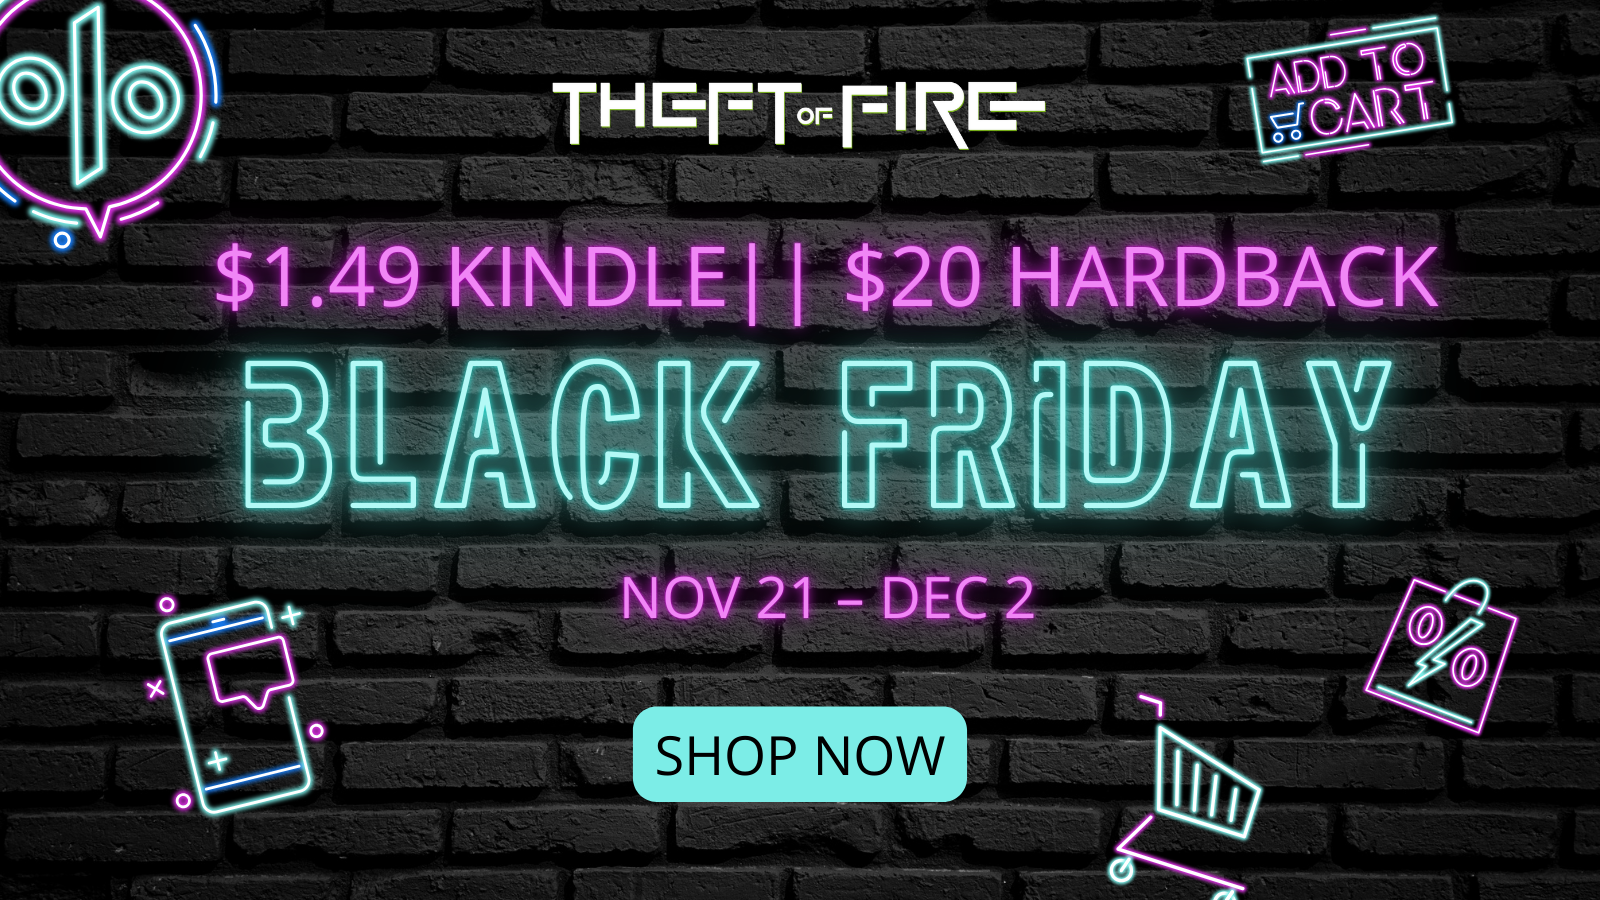
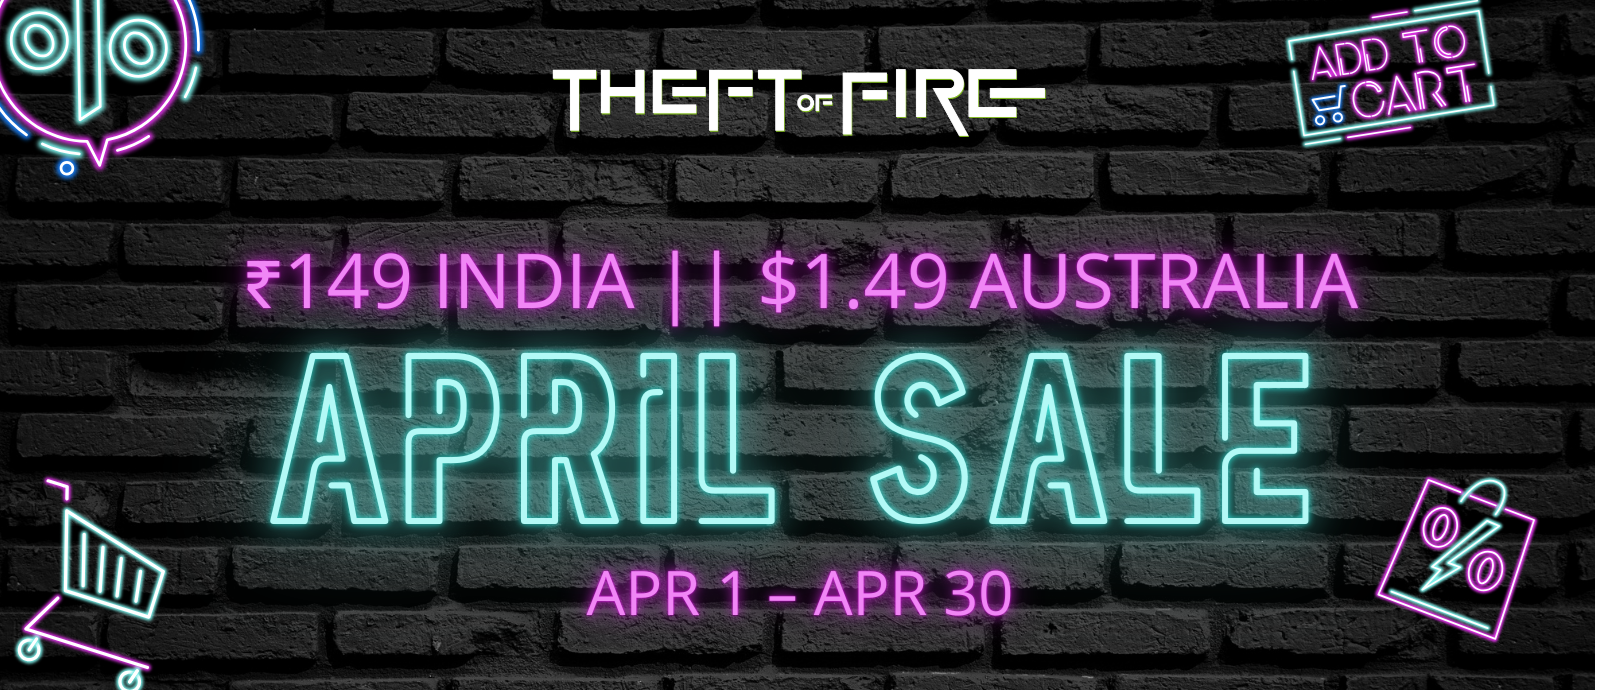
sale page update

diff --git a/src/components/PurchaseSale/PurchaseSale.jsx b/src/components/PurchaseSale/PurchaseSale.jsx
@@ -2,7 +2,7 @@ import { Box, Card, CardActionArea, CardContent, CardMedia, Grid, Typography } f
 import React from 'react';
 import './PurchaseSale.css'
 import '../allnovels/allnovels.css';
-import saleimg from '../../images/SaleCrop.jpg'
+import saleimg from '../../images/SaleImg.png'
 
 function PurchaseSale({ Cover, Page, Title, Series, SeriesNum }) {
     return (
@@ -24,25 +24,25 @@ function PurchaseSale({ Cover, Page, Title, Series, SeriesNum }) {
                 <Grid container spacing={2} alignItems="center" justifyContent="center">
                     <Grid item xs={12} sm="auto">
                         <a
-                            href="https://www.amazon.com/gp/product/B0CJHQ4LZN?tag=devoneriksen-20"
+                            href="https://www.amazon.in/Theft-Fire-Orbital-Space-1-ebook/dp/B0CJHQ4LZN?tag=devoneriksen-20"
                             target="_blank"
                             rel="noopener noreferrer"
                             onClick={() => window.sa_event('Buy_Other')}
                         >
                             <button className="neon-button">
-                                $1.49 Kindle
+                            ₹149 IND
                             </button>
                         </a>
                     </Grid>
                     <Grid item xs={12} sm="auto">
                         <a
-                            href="https://shop.ingramspark.com/b/084?params=ZcXZZ0cZLY7eDhLB3V0mOI4pfCqmm0HFTBTCuRMTeUd"
+                            href="https://www.amazon.com.au/Theft-Fire-Orbital-Space-1-ebook/dp/B0CJHQ4LZN?tag=devoneriksen-20"
                             target="_blank"
                             rel="noopener noreferrer"
                             onClick={() => window.sa_event('Buy_Other')}
                         >
                             <button className="neon-button">
-                                $20 Hardback
+                                $1.49 AUS
                             </button>
                         </a>
                     </Grid>

diff --git a/src/pages/Sale.jsx b/src/pages/Sale.jsx
@@ -8,9 +8,9 @@ import { BoxofTrouble } from '../components/Books/Orbital-BoT';
 const Purchase = () => {
     return (
         <Box sx={{ width: "89%", marginTop: "50px", marginX: "auto", color: "#ff9b02" }}>
-            <Typography variant='h5' className='mb-10'>Subscribe below to find out about upcoming sales.</Typography>
+            <Typography variant='h5' className='mb-10'>Sales</Typography>
             <Box sx={{ display: 'flex', justifyContent: 'center', flexWrap: 'wrap', padding: "20px" }}>
-                {/*<PurchaseSale {...TheftofFire} />*/}
+                <PurchaseSale {...TheftofFire} />
             </Box>
         </Box>
     )
